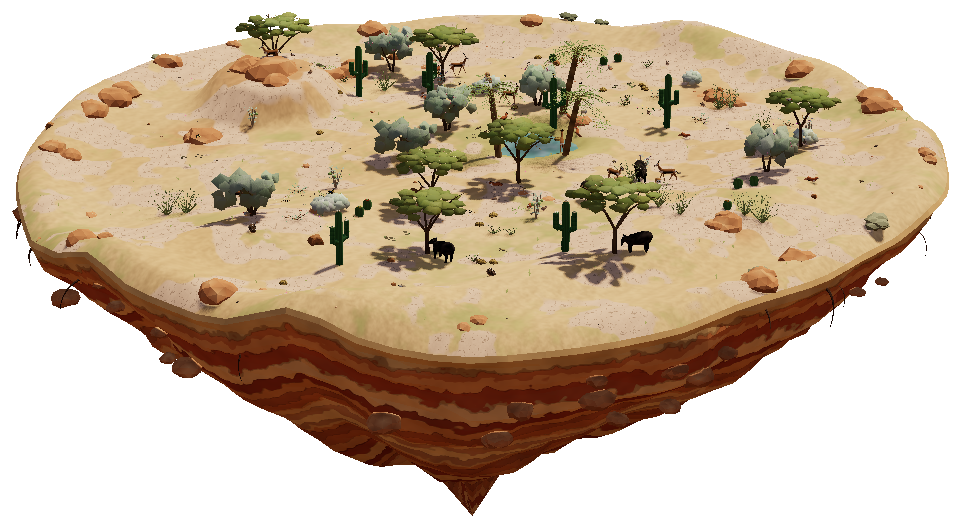
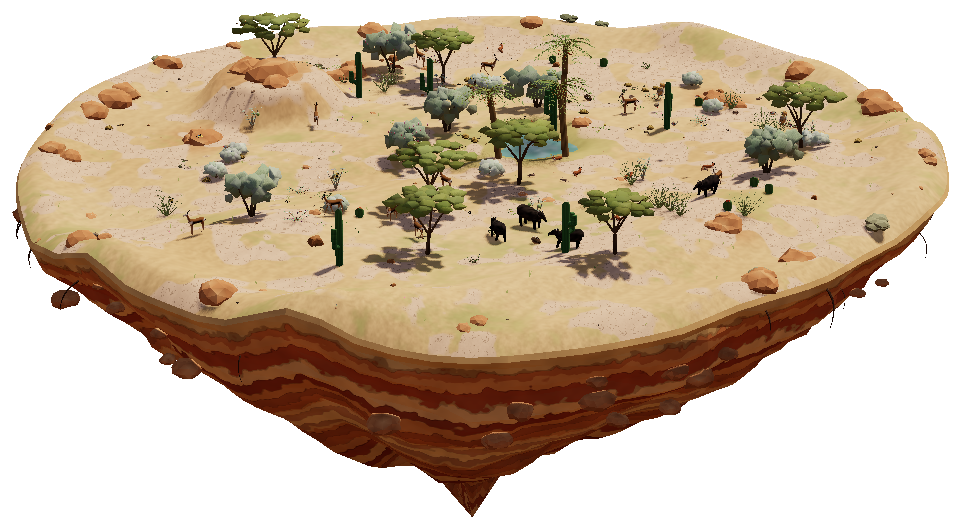
1.4.0: the desert in the lab cabinet (8 clue cases, 30 creatures to sort), clue paintings listed for Gemini
Claude-Session: https://claude.ai/code/session_01UqHRCQ94WWpCWMnwc4T8MJ

diff --git a/src/lab/clue-cases.js b/src/lab/clue-cases.js
@@ -1,4 +1,4 @@
-// "מי השאיר את זה?" (1.3.1): 24 cases, eight in each zone. Pure data (validate-lab reads it).
+// "מי השאיר את זה?" (1.3.1): eight cases in each zone (the desert's eight came in 1.4). Pure data (validate-lab reads it).
 // A case: one or two paintings of what was found (pics: art/lab-items ids, or 'card:<id>' for a card painting of the
 // place), two or three details the magnifying glass shows (d), suspects (sus, shown with their card paintings; the first
 // is the one who did it), why each other suspect is not it (no), and the answer (yes).
@@ -36,6 +36,10 @@ export const SUS = {
   octopus: L('תמנון', 'תְּמָנוּן'), moray: L('מורנה', 'מוֹרֶנָה'), hermit: L('סרטן נזיר', 'סַרְטַן נָזִיר'), starfish: L('קוצנון', 'קוֹצָנוֹן'),
   clownfish: L('שושנון', 'שׁוֹשַׁנּוֹן'), stingray: L('חתול ים', 'חֲתוּל יָם'), goby: L('גובי', 'גּוֹבִּי'), shrimp: L('חסילון', 'חֲסִילוֹן'),
   grouper: L('דקר', 'דַּקָּר'), lionfish: L('זהרון', 'זַהֲרוֹן'), cleaner: L('נקאי', 'נַקַּאי'),
+  jerboa: L('ירבוע', 'יַרְבּוֹעַ'), psammomys: L('פסמון', 'פְּסַמּוֹן'), fennec: L('שועל הפנק', 'שׁוּעַל הַפֶּנֶק'), deserthedgehog: L('קיפוד מדבר', 'קִפּוֹד מִדְבָּר'),
+  camel: L('גמל', 'גָּמָל'), dorcas: L('צבי נגבי', 'צְבִי נֶגְבִּי'), ibex: L('יעל', 'יָעֵל'), houbara: L('חוברה', 'חֻבָּרָה'), sandcat: L('חתול החולות', 'חֲתוּל הַחוֹלוֹת'),
+  caracal: L('קרקל', 'קָרָקָל'), sandgrouse: L('קטה', 'קַטָּה'), eagleowl: L('אוח', 'אוֹחַ'), darkling: L('חיפושית שחורה', 'חִפּוּשִׁית שְׁחֹרָה'),
+  desertant: L('נמלת המדבר', 'נְמָלַת הַמִּדְבָּר'), scorpion: L('עקרב', 'עַקְרָב'), uromastyx: L('חרדון הצב', 'חַרְדּוֹן הַצָּב'), hawkmoth: L('רפרף', 'רַפְרַף'),
 };
 
 export const CLUE_CASES = [
@@ -168,4 +172,55 @@ export const CLUE_CASES = [
     d: [F('התל עשוי חול ואבנים קטנות, שמישהו דחף החוצה.'), F('כל פעם שמסתכלים, התל קצת גדל.'), F('בפתח עומד דג קטן ושומר.')],
     no: { goby: F('הגובי גר במחילה, אבל הוא השומר, לא החופר!'), stingray: F('חתול הים עושה גומות רדודות, לא מחילות.'), octopus: F('התמנון גר בסדקים בין סלעים, לא במחילה בחול.') },
     yes: F('החסילון! הוא חופר כל הזמן, ודוחף החוצה חול ואבנים. והגובי עומד בפתח ושומר על שניהם.') },
+  // ═════════════ המדבר (1.4)
+  { id: 'd-jerboa', zone: 'desert', kids: true, sus: ['jerboa', 'psammomys', 'fennec', 'deserthedgehog'], pics: ['jerboa-tracks', 'card:saltbush'],
+    title: L('עקבות של קפיצות', 'עִקְבוֹת קְפִיצוֹת'), what: L('עקבות בחול, בבוקר, ליד שיח.', 'עִקְבוֹת בַּחוֹל, בַּבֹּקֶר.'),
+    d: [L('העקבות באים בזוגות: שתי רגליים ארוכות, תמיד אחת ליד השנייה.', 'שְׁתֵּי רַגְלַיִם אֲרֻכּוֹת, תָּמִיד בְּיַחַד.'), L('בין זוג לזוג יש מרחק גדול, כמו קפיצה.', 'בֵּין זוּג לְזוּג יֵשׁ קְפִיצָה גְּדוֹלָה.'),
+      L('פה ושם יש קו דק בחול, כמו של זנב.', 'יֵשׁ קַו דַּק שֶׁל זָנָב.')],
+    no: { psammomys: L('הפסמון הולך על ארבע רגליים, ולא קופץ רחוק.', 'הַפְּסַמּוֹן הוֹלֵךְ עַל אַרְבַּע.'), fennec: L('שועל הפנק הולך על ארבע, והעקבות שלו בשורה.', 'הַשּׁוּעָל הוֹלֵךְ עַל אַרְבַּע.'),
+      deserthedgehog: L('הקיפוד הולך לאט על ארבע רגליים קצרות.', 'הַקִּפּוֹד הוֹלֵךְ לְאַט עַל אַרְבַּע.') },
+    yes: L('הירבוע! הוא קופץ על שתי רגליים אחוריות ארוכות, והזנב הארוך עוזר לו לשמור על שיווי משקל.', 'הַיַּרְבּוֹעַ! הוּא קוֹפֵץ עַל שְׁתֵּי רַגְלַיִם.') },
+  { id: 'd-camel', zone: 'desert', kids: true, sus: ['camel', 'dorcas', 'ibex', 'houbara'], pics: ['camel-tracks', 'card:acacia'],
+    title: L('עקבות ענקיים', 'עִקְבוֹת עֲנָק'), what: L('עקבות גדולים ועגולים בחול, ליד שיטה.', 'עִקְבוֹת גְּדוֹלִים וַעֲגֻלִּים בַּחוֹל.'),
+    d: [L('כל עקב גדול כמו צלחת, ויש בו שתי אצבעות.', 'כָּל עָקֵב גָּדוֹל כְּמוֹ צַלַּחַת.'), L('העקבות רכים, בלי קצוות חדים של פרסה.', 'הָעִקְבוֹת רַכִּים.'),
+      L('בשיטה נאכלו ענפים גבוהים, למרות הקוצים.', 'בַּשִּׁטָּה נֶאֶכְלוּ עֲנָפִים גְּבוֹהִים.')],
+    no: { dorcas: L('לצבי יש פרסות קטנות וחדות, והעקבות שלו קטנים.', 'הָעִקְבוֹת שֶׁל הַצְּבִי קְטַנִּים.'), ibex: L('ליעל יש פרסות קטנות, והוא מטפס על סלעים.', 'לַיָּעֵל יֵשׁ פַּרְסוֹת קְטַנּוֹת.'),
+      houbara: L('לחוברה יש רגליים של ציפור, עם שלוש אצבעות דקות.', 'לַחֻבָּרָה יֵשׁ רַגְלַיִם שֶׁל צִפּוֹר.') },
+    yes: L('הגמל! הרגל שלו רחבה ורכה, כדי לא לשקוע בחול. הוא גבוה, ואוכל עלים של שיטה בלי לפחד מהקוצים.', 'הַגָּמָל! הָרֶגֶל שֶׁלּוֹ רְחָבָה וְרַכָּה.') },
+  { id: 'd-fennec', zone: 'desert', kids: true, sus: ['fennec', 'sandcat', 'caracal', 'jerboa'], pics: ['fox-tracks-sand'],
+    title: L('בור ליד השיח', 'בּוֹר לְיַד הַשִּׂיחַ'), what: L('עקבות קטנים בחול, ובור חפור ליד שיח.', 'עִקְבוֹת קְטַנִּים וּבוֹר בַּחוֹל.'),
+    d: [L('העקבות קטנים ומטושטשים, כאילו היו פרווה מתחת לרגל.', 'הָעִקְבוֹת קְטַנִּים וּמְטֻשְׁטָשִׁים.'), L('לפני כל עקב יש נקודות קטנות של ציפורניים.', 'יֵשׁ נְקֻדּוֹת שֶׁל צִפָּרְנַיִם.'),
+      L('מישהו חפר ליד השיח, אחרי חרק שזז מתחת לחול.', 'מִישֶׁהוּ חָפַר אַחֲרֵי חֶרֶק.')],
+    no: { sandcat: L('לחתול החולות יש פרווה מתחת לכפות, אבל החתול מכניס את הציפורניים כשהוא הולך.', 'הֶחָתוּל מַכְנִיס אֶת הַצִּפָּרְנַיִם.'), caracal: L('הקרקל גדול יותר, וגם הוא מכניס את הציפורניים.', 'הַקָּרָקָל גָּדוֹל יוֹתֵר.'),
+      jerboa: L('הירבוע קופץ על שתי רגליים, והעקבות שלו באים בזוגות.', 'הַיַּרְבּוֹעַ קוֹפֵץ עַל שְׁתַּיִם.') },
+    yes: L('שועל הפנק! יש לו פרווה מתחת לכפות, והציפורניים שלו תמיד בחוץ. באוזניים הענקיות הוא שמע חרק מתחת לחול, וחפר אחריו.', 'שׁוּעַל הַפֶּנֶק! הוּא שָׁמַע חֶרֶק וְחָפַר.') },
+  { id: 'd-psammomys', zone: 'desert', kids: true, sus: ['psammomys', 'jerboa', 'sandcat', 'deserthedgehog'], pics: ['saltbush-burrow', 'card:saltbush'],
+    title: L('מחסן של עלים', 'מַחְסָן שֶׁל עָלִים'), what: L('פתח של מחילה בין שיחי מלוח, באמצע היום.', 'מְחִלָּה בֵּין שִׂיחֵי מַלּוּחַ.'),
+    d: [L('ליד הפתח יש ערמה קטנה של עלים כסופים וקטועים.', 'לְיַד הַפֶּתַח יֵשׁ עָלִים כְּסוּפִים.'), L('ענפים של המלוח נחתכו, כאילו מישהו כרסם אותם.', 'מִישֶׁהוּ כִּרְסֵם אֶת הָעֲנָפִים.'),
+      L('בצהריים ראינו מישהו נכנס ויוצא, עם עלה בפה.', 'בַּצָּהֳרַיִם מִישֶׁהוּ יָצָא עִם עָלֶה.')],
+    no: { jerboa: L('הירבוע יוצא רק בלילה, וביום סוגר את המחילה בחול.', 'הַיַּרְבּוֹעַ יוֹצֵא רַק בַּלַּיְלָה.'), sandcat: L('חתול החולות צד מכרסמים, ולא אוכל עלים.', 'הֶחָתוּל לֹא אוֹכֵל עָלִים.'),
+      deserthedgehog: L('הקיפוד אוכל חרקים, ולא אוסף עלים.', 'הַקִּפּוֹד אוֹכֵל חֲרָקִים.') },
+    yes: L('הפסמון! הוא אוכל כמעט רק עלים של מלוח, פעיל ביום, וממלא את המחילה בעלים לימים שאין בהם אוכל.', 'הַפְּסַמּוֹן! הוּא אוֹסֵף עָלִים לַמְּחִלָּה.') },
+  { id: 'd-grouse', zone: 'desert', sus: ['sandgrouse', 'houbara', 'eagleowl', 'ibex'], pics: ['sandgrouse-feather', 'card:datepalm'],
+    title: F('נוצה שסופגת מים'), what: F('נוצה בצבעי חול, ליד המעיין, בבוקר.'),
+    d: [F('הנוצה רכה ומסולסלת, וכשטובלים אותה במים היא נשארת רטובה כמו ספוג.'), F('ליד המים יש הרבה עקבות של ציפורים קטנות, שבאות בלהקה.'),
+      F('מהמעיין יוצא שביל של עקבות אל גומה בחול, רחוק משם.')],
+    no: { houbara: F('החוברה מעדיפה ללכת, ולא באה בלהקות למעיין.'), eagleowl: F('האוח צד בלילה, ולא מביא מים לגוזלים.'), ibex: F('היעל שותה במעיין, אבל אין לו נוצות.') },
+    yes: F('הקטה! נוצות הבטן של האבא סופגות מים כמו ספוג. הוא טובל אותן במעיין ועף עם המים אל הגוזלים בגומה, רחוק מהמים.') },
+  { id: 'd-darkling', zone: 'desert', sus: ['darkling', 'desertant', 'scorpion', 'jerboa'], pics: ['beetle-tracks'],
+    title: F('תפרים על הדיונה'), what: F('קווים דקים על דיונה, בבוקר מוקדם.'),
+    d: [F('העקבות נראים כמו שני קווים של נקודות קטנות, כמו תפר.'), F('באמצע אין קו של זנב.'), F('השביל מגיע אל צמח יבש, ושם עלים מכורסמים.')],
+    no: { desertant: F('נמלת המדבר יוצאת בצהריים החמים, ושוקלת כל כך מעט שכמעט לא משאירה עקבות.'), scorpion: F('לעקרב יש זנב ארוך, ולפעמים הוא משאיר קו באמצע.'),
+      jerboa: F('הירבוע משאיר זוגות של עקבות גדולים, עם קפיצות.') },
+    yes: F('החיפושית השחורה! שש הרגליים הארוכות שלה משאירות שני קווים של נקודות. היא יוצאת כשקריר, ואוכלת עלים יבשים.') },
+  { id: 'd-uromastyx', zone: 'desert', sus: ['uromastyx', 'scorpion', 'deserthedgehog', 'caracal'], pics: ['spiny-tail-drag'],
+    title: F('פס רחב בחול'), what: F('פתח של מחילה מתחת לסלע, ולידו פס רחב בחול.'),
+    d: [F('בפס יש סימנים קטנים, כמו של קוצים שנגררו.'), F('בצמחים ליד הסלע נאכלו עלים ופרחים.'), F('בבוקר ראינו מישהו שוכב על הסלע, כהה, ונעשה בהיר בצהריים.')],
+    no: { scorpion: F('העקרב קטן מדי לפס כזה, והוא לא אוכל צמחים.'), deserthedgehog: F('הקיפוד אוכל חרקים, ולא שוכב בשמש.'), caracal: F('הקרקל צד, ולא אוכל עלים ופרחים.') },
+    yes: F('חרדון הצב! הזנב העבה שלו מכוסה קוצים, והוא אוכל צמחים. בבוקר הוא כהה ומתחמם מהר בשמש, וכשחם הוא נעשה בהיר יותר.') },
+  { id: 'd-hawkmoth', zone: 'desert', sus: ['hawkmoth', 'desertant', 'darkling', 'houbara'], pics: ['caper-night', 'card:caper'],
+    title: F('פרחים של לילה'), what: F('שיח צלף, בבוקר, ליד סלע.'),
+    d: [F('הפרחים נפתחו בלילה, ובבוקר הם כבר נובלים.'), F('הצוף נמצא עמוק בתוך הפרח.'), F('בערב ראינו משהו מרחף ליד הפרח, בלי לנחות, כמו יונק דבש קטן.')],
+    no: { desertant: F('נמלת המדבר יוצאת בצהריים, לא בלילה.'), darkling: F('החיפושית הולכת על האדמה, ולא מרחפת.'), houbara: F('החוברה הולכת ביום, ולא שותה צוף.') },
+    yes: F('הרפרף! הוא מרחף ליד הפרח בלילה ושותה את הצוף העמוק בחדק ארוך מאוד. כך הוא מעביר אבקה מפרח לפרח.') },
 ];

diff --git a/src/lab/sort-data.js b/src/lab/sort-data.js
@@ -93,6 +93,37 @@ const C = [
   ['goby', 'reef', 'גובי', 'a', 'w', _, _, 1, 1, 'sca', 's'],
   ['shrimp', 'reef', 'חסילון', 'a', 'w', _, _, 0, 1, 'oth', 's'],
   ['turtle', 'reef', 'צב ים ירוק', 'a', 'w', _, _, 1, 1, _, 'b'],
+  // מדבר (1.4)
+  ['acacia', 'desert', 'שיטה סלילנית', 'p', 'l', _, _, _, 0, _, 'b'],
+  ['datepalm', 'desert', 'דקל תמר', 'p', 'l', _, _, _, 0, _, 'b'],
+  ['tamarisk', 'desert', 'אשל', 'p', 'l', _, _, _, 0, _, 'b'],
+  ['retama', 'desert', 'רותם המדבר', 'p', 'l', _, _, _, 0, _, _],
+  ['saltbush', 'desert', 'מלוח קיפח', 'p', 'l', _, _, _, 0, _, _],
+  ['zygophyllum', 'desert', 'זוגן השיח', 'p', 'l', _, _, _, 0, _, _],
+  ['caper', 'desert', 'צלף', 'p', 'l', _, _, _, 0, _, _],
+  ['calotropis', 'desert', 'פתילת המדבר', 'p', 'l', _, _, _, 0, _, _],
+  ['colocynth', 'desert', 'אבטיח הפקועה', 'p', 'l', _, _, _, 0, _, _],
+  ['anastatica', 'desert', 'שושנת יריחו', 'p', 'l', _, _, _, 0, _, 's'],
+  ['columncactus', 'desert', 'קקטוס עמוד', 'p', 'l', _, _, _, 0, _, 'b'],
+  ['barrelcactus', 'desert', 'קקטוס חבית', 'p', 'l', _, _, _, 0, _, _],
+  ['fennec', 'desert', 'שועל הפנק', 'a', 'l', 'b', 'n', 1, 1, 'fur', _],
+  ['sandcat', 'desert', 'חתול החולות', 'a', 'l', 'a', 'n', 1, 1, 'fur', _],
+  ['caracal', 'desert', 'קרקל', 'a', 'l', 'a', _, 1, 1, 'fur', 'b'],
+  ['ibex', 'desert', 'יעל נובי', 'a', 'l', 'p', 'd', 1, 1, 'fur', 'b'],
+  ['dorcas', 'desert', 'צבי נגבי', 'a', 'l', 'p', _, 1, 1, 'fur', 'b'],
+  ['camel', 'desert', 'גמל חד־דבשתי', 'a', 'l', 'p', 'd', 1, 1, 'fur', 'b'],
+  ['jerboa', 'desert', 'ירבוע', 'a', 'l', _, 'n', 1, 1, 'fur', 's'],
+  ['psammomys', 'desert', 'פסמון', 'a', 'l', 'p', 'd', 1, 1, 'fur', _],
+  ['deserthedgehog', 'desert', 'קיפוד מדבר', 'a', 'l', 'a', 'n', 1, 1, _, _],
+  ['uromastyx', 'desert', 'חרדון צב', 'a', 'l', 'p', 'd', 1, 1, 'sca', _],
+  ['scorpion', 'desert', 'עקרב צהוב', 'a', 'l', 'a', 'n', 0, 1, 'oth', _],
+  ['darkling', 'desert', 'חיפושית שחורה', 'a', 'l', 'p', _, 0, 1, 'oth', 's'],
+  ['desertant', 'desert', 'נמלת המדבר', 'a', 'l', 'a', 'd', 0, 1, 'oth', 's'],
+  ['sandgrouse', 'desert', 'קטה', 'a', 'a', 'p', 'd', 1, 1, 'fea', _],
+  ['eagleowl', 'desert', 'אוח מדבר', 'a', 'a', 'a', 'n', 1, 1, 'fea', 'b'],
+  ['houbara', 'desert', 'חוברה', 'a', 'l', 'b', 'd', 1, 1, 'fea', 'b'],
+  ['hawkmoth', 'desert', 'רפרף', 'a', 'a', 'p', 'n', 0, 1, 'oth', _],
+  ['desertsnail', 'desert', 'חילזון מדבר', 'a', 'l', 'p', _, 0, 1, 'oth', 's'],
   ['octopus', 'reef', 'תמנון', 'a', 'w', 'a', _, 0, 1, 'oth', _],
   ['urchin', 'reef', 'קיפוד ים', 'a', 'w', 'p', 'n', 0, 1, 'oth', _],
   ['starfish', 'reef', 'קוצנון', 'a', 'w', 'a', _, 0, 1, 'oth', _],
